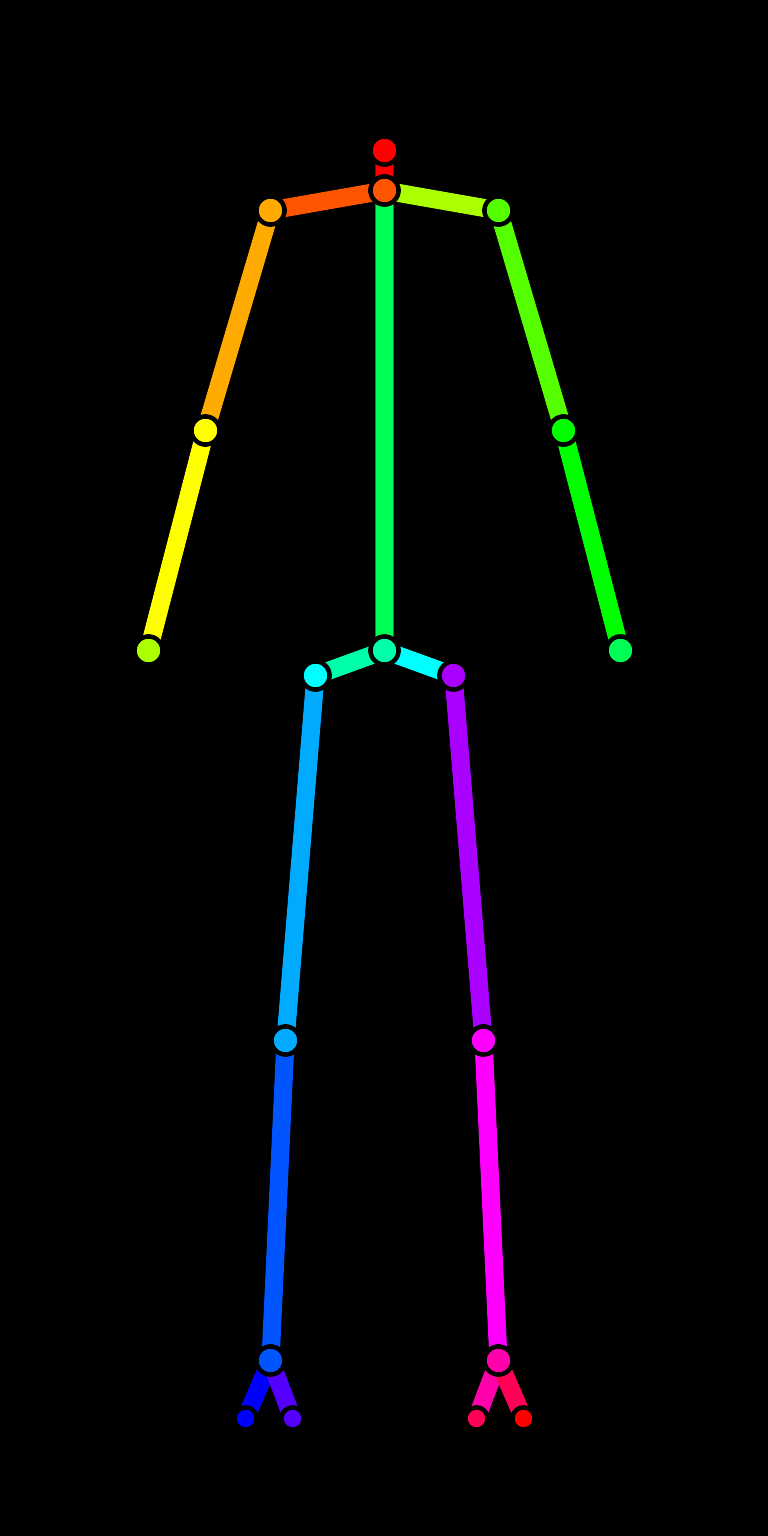
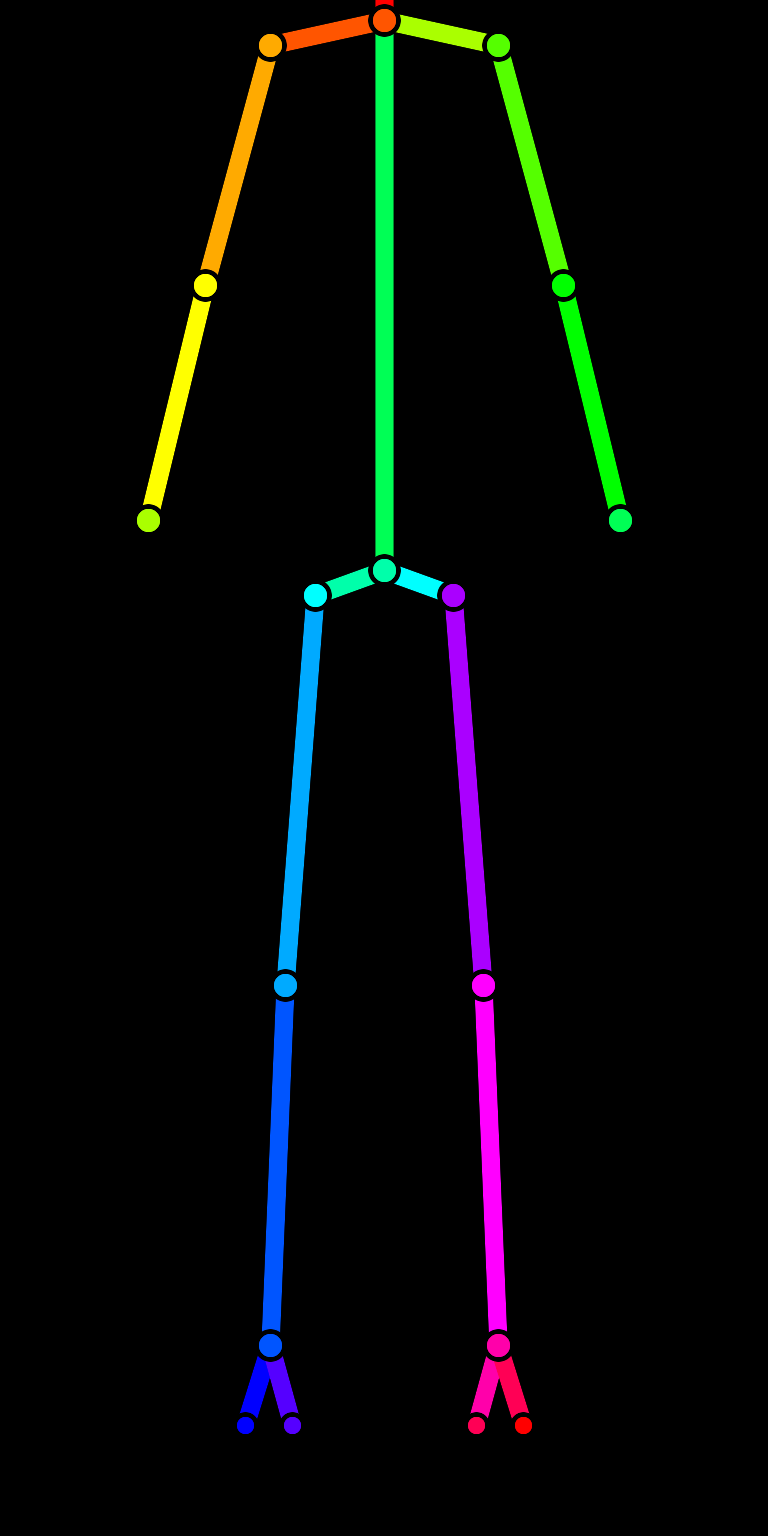
fix body preview neck-to-toes framing

Changed region(s): [[0.1562, 0.0, 0.8438, 0.4375], [0.3125, 0.3438, 0.6875, 0.9375]]

diff --git a/tests/test_node_control_api.py b/tests/test_node_control_api.py
@@ -6385,9 +6385,9 @@ class NodeControlOperationalMqttRecoveryTests(unittest.IsolatedAsyncioTestCase):
                 self.assertEqual(payload.template_variables["scheduler"], "karras")
                 self.assertEqual(payload.template_variables["pose_reference_image"], "system/neutral-a-pose-openpose.png")
                 self.assertEqual(payload.template_variables["pose_controlnet"], "controlnet-openpose-sdxl-1.0.safetensors")
-                self.assertEqual(payload.template_variables["pose_strength"], 0.85)
+                self.assertEqual(payload.template_variables["pose_strength"], 1.0)
                 self.assertEqual(payload.template_variables["pose_start"], 0.0)
-                self.assertEqual(payload.template_variables["pose_end"], 0.8)
+                self.assertEqual(payload.template_variables["pose_end"], 1.0)
                 self.assertTrue(payload.template_variables["avatar_name"].startswith("Body_Test_"))
                 self.assertNotEqual(payload.template_variables["avatar_name"], "Body_Test")
                 self.assertTrue((input_dir / "system" / "neutral-a-pose-openpose.png").is_file())
@@ -6412,7 +6412,7 @@ class NodeControlOperationalMqttRecoveryTests(unittest.IsolatedAsyncioTestCase):
         self.assertEqual(result["preview"]["lightning_strength"], 0.0)
         self.assertTrue(result["preview"]["output_avatar_name"].startswith("Body_Test_"))
         self.assertEqual(result["preview"]["pose_reference_image"], "system/neutral-a-pose-openpose.png")
-        self.assertEqual(result["preview"]["pose_strength"], 0.85)
+        self.assertEqual(result["preview"]["pose_strength"], 1.0)
 
     def test_avatar_generation_saves_latest_upper_torso_alias(self):
         with tempfile.TemporaryDirectory() as tmp:

diff --git a/tests/test_comfyui_template_catalog.py b/tests/test_comfyui_template_catalog.py
@@ -53,8 +53,8 @@ class ComfyUiTemplateCatalogTests(unittest.TestCase):
         self.assertEqual(head_face_template["model_requirements"]["other"]["background_removal"], "birefnet.safetensors")
         body_preview_template = templates_by_id["template.avatar_upper_torso_preview.realvisxl.v1"]
         self.assertEqual(body_preview_template["defaults"]["pose_reference_image"], "system/neutral-a-pose-openpose.png")
-        self.assertEqual(body_preview_template["defaults"]["pose_strength"], 0.85)
-        self.assertEqual(body_preview_template["defaults"]["pose_end"], 0.8)
+        self.assertEqual(body_preview_template["defaults"]["pose_strength"], 1.0)
+        self.assertEqual(body_preview_template["defaults"]["pose_end"], 1.0)
         self.assertEqual(body_preview_template["model_requirements"]["controlnets"], ["controlnet-openpose-sdxl-1.0.safetensors"])
         self.assertIn("ControlNetApplyAdvanced", body_preview_template["model_requirements"]["other"]["nodes"])
         body_preview_workflow = json.loads(Path(body_preview_template["api_workflow_path"]).read_text(encoding="utf-8"))

diff --git a/docs/ai-node/ui-redesign.md b/docs/ai-node/ui-redesign.md
@@ -151,7 +151,7 @@ Image creation is moving into a standalone workspace at `#/image-studio`.
 - every character-interview screen can save the incomplete profile; Check, Continue, and Finish persist the current answers before advancing
 - the face workspace can submit a real head/face preview and shows the resulting image with live generation, queue, node, runtime, model, VRAM, prompt, and seed status
 - Face & Features saves one approved preview and one face seed; multi-image face-angle and pose datasets are deferred to a later identity-strengthening stage
-- Body & Proportions uses structured height, build, shoulder, torso, waist, hip, limb, and musculature selections, then requires one neutral 768×1536 neck-to-toes preview with the head and face outside the frame. The compiled prompt prioritizes a distant extreme-long-shot composition, enforces a symmetrical front-facing neutral A-pose, keeps the complete feet and toes inside visible margins, and saves the body seed before continuing
+- Body & Proportions uses structured height, build, shoulder, torso, waist, hip, limb, and musculature selections, then requires one neutral 768×1536 neck-to-toes preview with the head and face outside the frame. The compiled prompt prioritizes a distant extreme-long-shot composition, while the full-strength pose guide places the neck beyond the top canvas edge, enforces a symmetrical front-facing neutral A-pose, and keeps the complete feet and toes inside visible margins; the body seed is saved before continuing
 - each successfully imported body preview also refreshes `<profile>/refs/upper_torso/last.png` and its JSON sidecar as a stable pointer to the latest body image
 - each body-preview submission uses a unique ComfyUI output prefix, so Redo with a retained seed cannot be imported into an older pending preview that shares the same seed
 - resuming an incomplete character restores both the saved face-feature and body-feature catalog selections, custom details, and combined descriptions
